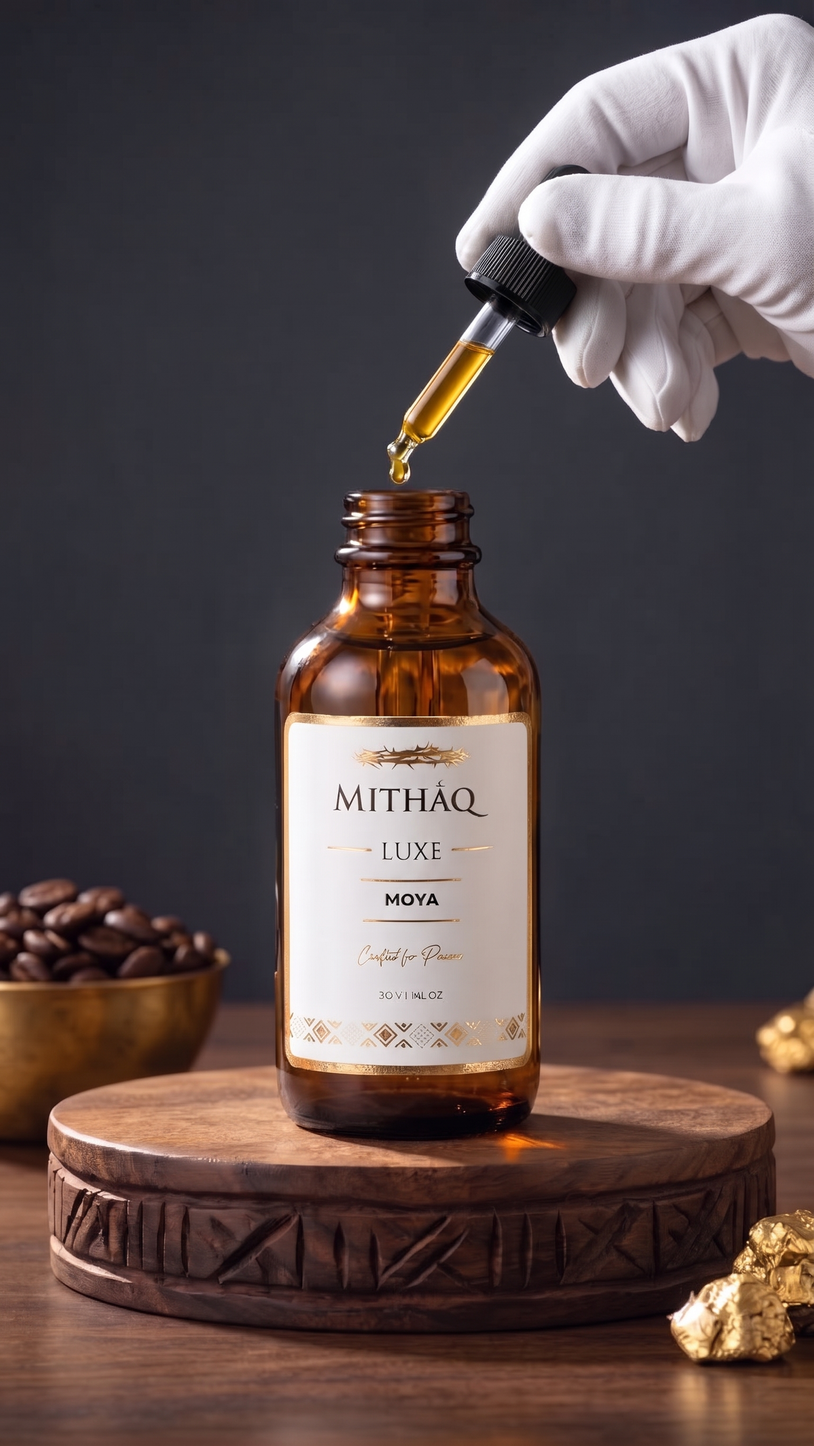
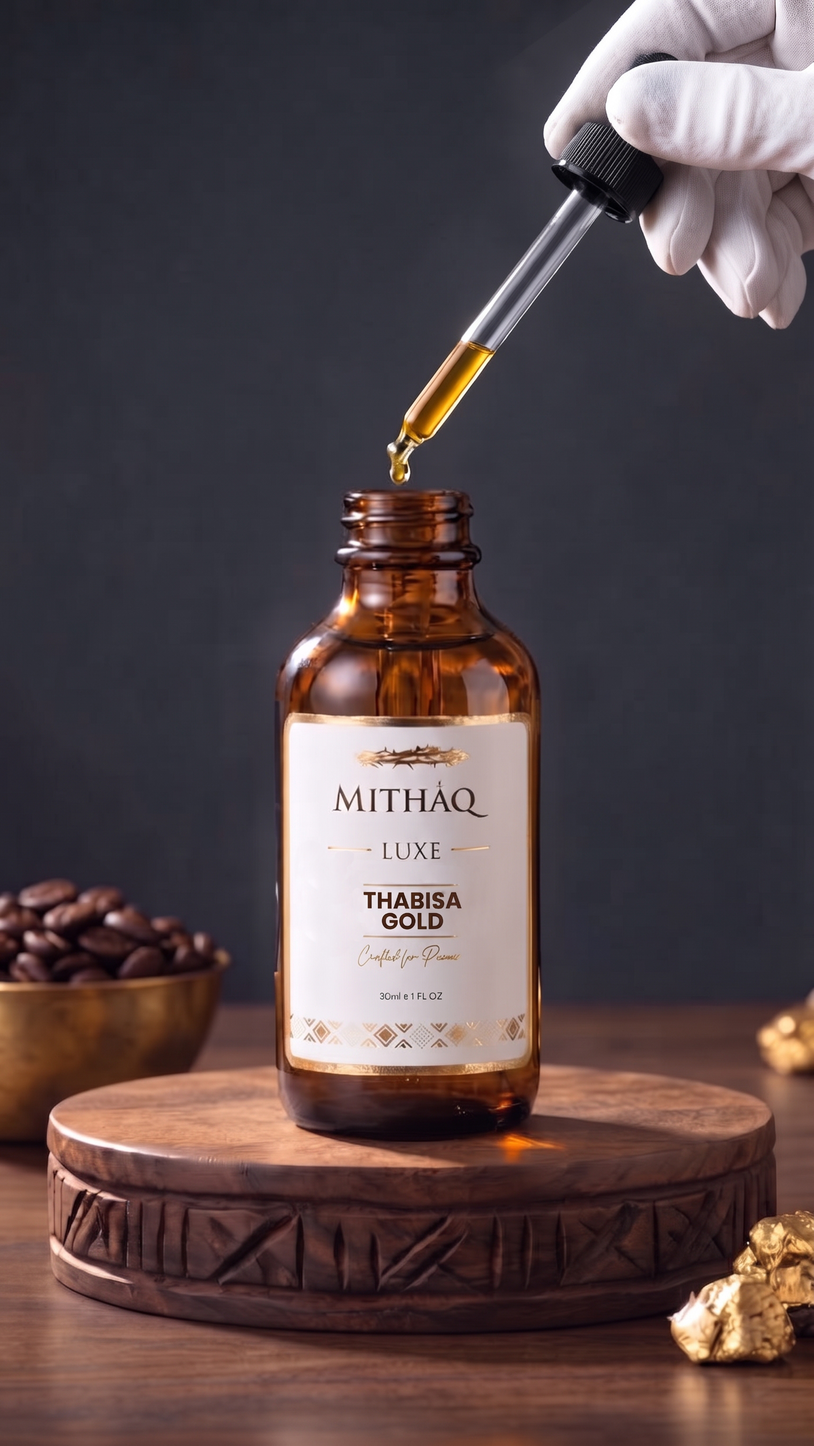
Update heritage image to new Thabisa Gold shot

diff --git a/index.html b/index.html
@@ -185,7 +185,7 @@
 </div>
 <div class="md:col-span-5 md:col-start-8 order-1 md:order-2">
 <div class="relative aspect-[4/5] overflow-hidden border border-outline-variant/10">
-<img alt="Apothecary craftsmanship" class="w-full h-full object-cover" src="./redo/heritage.jpg" loading="lazy"/>
+<img alt="Apothecary craftsmanship" class="w-full h-full object-cover" src="./redo/heritage.jpg?v=2" loading="lazy"/>
 </div>
 </div>
 </div>
